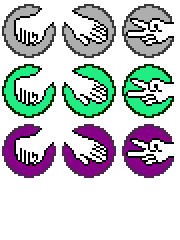
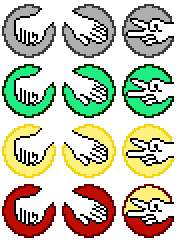
Add Enemy

Changed region(s): [[0.0, 0.4958, 0.9722, 0.9917]]

diff --git a/src/js/play.js b/src/js/play.js
@@ -52,11 +52,18 @@ Game.Play.prototype = {
     this.player = this.game.add.sprite(64, 180, 'player');
     this.player.animations.add('idle',[0,1],3,true);
 
+    this.enemy = this.game.add.sprite(Game.w - 128, 180, 'enemy');
+    this.enemy.animations.add('idle',[0,1],3,true);
+
     this.lock = this.game.add.sprite(32, 64, 'lock');
     this.challengeText = this.game.add.bitmapText(85, 74, 'minecraftia', 'Win 3 in a row', 20);
-    this.messages = this.game.add.bitmapText(Game.w/2, Game.h/2, 'minecraftia', '', 80);
+    this.messages = this.game.add.bitmapText(Game.w/2, Game.h/2, 'minecraftia', '', 40);
+    this.messages.align = 'center';
+    this.messages.x = this.game.width/2 - this.messages.textWidth / 2;
+
 
     this.countDownInt = 3;
+    this.ready = true;
 
 
     // // Music
@@ -77,39 +84,19 @@ Game.Play.prototype = {
       case 'rock':
         console.log('you picked rock');
         this.playerChoice = 'rock';
-        this.ready = true;
         break;
       case 'paper':
         console.log('you picked paper');
         this.playerChoice = 'paper';
-        this.ready = true;
         break;
       case 'scissors':
         console.log('you picked scissors');
         this.playerChoice = 'scissors';
-        this.ready = true;
         break;
     }
 
   },
-
-  update: function() {
-
-    //Get Ready
-    //CountDown
-    //Compare Computer/Player
-    //Display Result
-    //Play Again
-
-    if (this.playerChoice === '') {
-      this.getReady();
-    }
-
-    if (this.ready === true) {
-
-    if (this.computerChoice === '') {
-      this.computerChoice = this.choices[rand(0,2)];      
-    }
+  pickYourWeapon: function() {
      switch(this.playerChoice) {
       case 'rock':
         this.player.frame = 2;
@@ -120,71 +107,59 @@ Game.Play.prototype = {
       case 'scissors':
         this.player.frame = 4;
         break;
-      default:
-        this.player.animations.play('idle');
     }
+   
+  },  
+  update: function() {
+
+    //Get Ready
+    //CountDown
+    //Compare Computer/Player
+    //Display Result
+    //Play Again
+
+    this.pickYourWeapon();
+
+    if (this.playerChoice) {
+      this.computerChoice = this.choices[rand(0,2)];      
+      switch(this.computerChoice) {
+        case 'rock':
+          this.enemy.frame = 2;
+          break;
+        case 'paper':
+          this.enemy.frame = 3;
+          break;
+        case 'scissors':
+          this.enemy.frame = 4;
+          break;
+      }
+
+      this.messages.fontSize = 40;
+      this.messages.x = Game.w/2-64;
 
       if (this.playerChoice === this.computerChoice) {
+        this.messages.text = "YOU TIE!";
         console.log("YOU TIE!");
       }else if (
                 ((this.playerChoice === 'paper') && (this.computerChoice === 'rock')) || 
                 ((this.playerChoice === 'rock') && (this.computerChoice === 'scissors')) || 
                 ((this.playerChoice === 'scissors') && (this.computerChoice === 'paper'))) {
+        this.messages.text = "YOU WIN!";
         console.log("YOU WIN! "+this.playerChoice+' beats '+this.computerChoice);
       }else {
+        this.messages.text = "YOU LOSE!";
         console.log("YOU LOSE!"+this.computerChoice+' beats '+this.playerChoice);
       }
       this.computerChoice = '';
       this.playerChoice = '';
-    this.game.time.events.add(Phaser.Timer.SECOND,function() {
-      this.player.animations.play('idle');
-    }, this);
-
-     
+    }else{
+      if (this.ready) {
+        this.getReady();
+      }else {
+        // this.enemy.animations.play('idle');
+        // this.player.animations.play('idle');
+      }
     }
-
-
-    // if (this.computerChoice === '') {
-    //   this.computerChoice = this.choices[rand(0,2)];      
-    // }
-    //
-    // switch(this.playerChoice) {
-    //   case 'rock':
-    //     this.player.frame = 2;
-    //     break;
-    //   case 'paper':
-    //     this.player.frame = 3;
-    //     break;
-    //   case 'scissors':
-    //     this.player.frame = 4;
-    //     break;
-    //   default:
-    //     this.player.animations.play('idle');
-    // }
-    //
-    // if (this.computerChoice && this.playerChoice) {
-    //   if (this.playerChoice === this.computerChoice) {
-    //     console.log("YOU TIE!");
-    //   }else if (
-    //             ((this.playerChoice === 'paper') && (this.computerChoice === 'rock')) || 
-    //             ((this.playerChoice === 'rock') && (this.computerChoice === 'scissors')) || 
-    //             ((this.playerChoice === 'scissors') && (this.computerChoice === 'paper'))) {
-    //     console.log("YOU WIN! "+this.playerChoice+' beats '+this.computerChoice);
-    //   }else {
-    //     console.log("YOU LOSE!"+this.computerChoice+' beats '+this.playerChoice);
-    //   }
-    //
-    //   this.computerChoice = '';
-    //   this.playerChoice = '';
-    // }else{
-    //   //Spawn Enemy
-    //   //3-2-1-Select
-    //   //Settle Loser/Winner
-    //   //Reset Choices
-    //   //Respawn Player or Enemy
-    //   // this.countDown();
-    //   this.getReady();
-    // }
 
     // // Toggle Music
     // muteKey.onDown.add(this.toggleMute, this);
@@ -213,7 +188,7 @@ Game.Play.prototype = {
     t.onComplete.add(function() {
       this.messages.fontSize = 80;
       this.tweening = false;
-      if (this.countDownInt > 0) {
+      if (this.countDownInt > 1) {
         this.countDownInt -= 1;
         this.tweenNumber();
       }else{

diff --git a/src/js/load.js b/src/js/load.js
@@ -46,6 +46,7 @@ Game.Load.prototype = {
   	this.game.load.setPreloadSprite(preloading);
     this.game.load.spritesheet('rps','assets/images/RPS.png',60,60,12);
     this.game.load.spritesheet('player','assets/images/RPS_player.png',66,66,9);
+    this.game.load.spritesheet('enemy','assets/images/RPS_enemy.png',66,66,9);
     this.game.load.spritesheet('lock', 'assets/images/RPS_lock.png',32,32,6);
 
     this.game.load.tilemap('bridge','assets/maps/bridge.json',null,Phaser.Tilemap.TILED_JSON);
